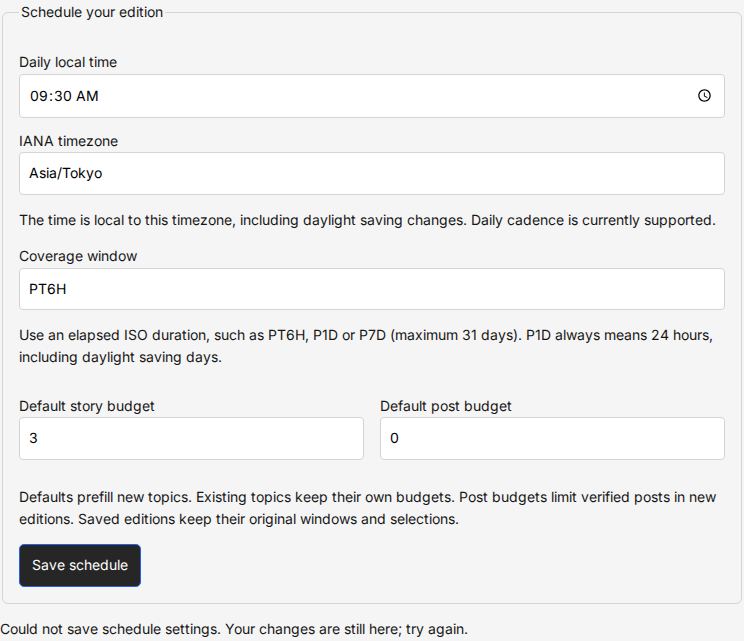
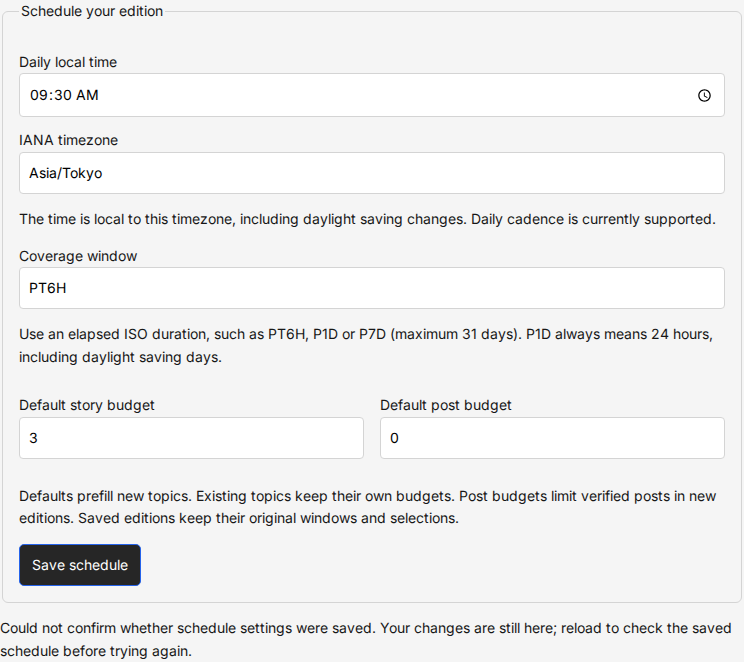
Clarify uncertain schedule saves and verify recovery

diff --git a/scripts/smoke-schedule.ts b/scripts/smoke-schedule.ts
@@ -49,6 +49,8 @@ async function smoke() {
     return route.continue();
   });
   let failSave = false;
+  let saveBeforeAbort = false;
+  let rejectSave = false;
   let pendingSave: Promise<void> | undefined;
   let releaseSave: (() => void) | undefined;
   let saves = 0;
@@ -60,7 +62,8 @@ async function smoke() {
     assert.equal(route.request().method(), 'PUT');
     saves++;
     if (pendingSave) await pendingSave;
-    if (failSave) return route.abort('failed');
+    if (failSave && !saveBeforeAbort) return route.abort('failed');
+    if (rejectSave) return route.fulfill({ status: 503, body: 'Unavailable' });
     const result = scheduleSchema.safeParse(route.request().postDataJSON());
     if (!result.success) {
       await route.fulfill({
@@ -75,6 +78,7 @@ async function smoke() {
       return;
     }
     profile.schedule = result.data;
+    if (saveBeforeAbort) return route.abort('failed');
     await route.fulfill({ json: profile });
   });
   try {
@@ -145,7 +149,9 @@ async function smoke() {
       pendingSave = undefined;
       await form
         .getByRole('status')
-        .filter({ hasText: 'Could not save schedule settings.' })
+        .filter({
+          hasText: 'Could not confirm whether schedule settings were saved.',
+        })
         .waitFor();
       assert.deepEqual(profile, beforeFailure);
       assert.ok(
@@ -181,6 +187,44 @@ async function smoke() {
         path: `docs/screenshots/schedule-save-failure-${device}.png`,
       });
       failSave = false;
+      rejectSave = true;
+      await form
+        .getByRole('button', { name: 'Save schedule', exact: true })
+        .click();
+      await form
+        .getByRole('status')
+        .filter({ hasText: 'Schedule request failed.' })
+        .waitFor();
+      assert.deepEqual(profile, beforeFailure);
+      assert.equal(
+        await form.getByLabel('Coverage window', { exact: true }).inputValue(),
+        'PT6H',
+      );
+      rejectSave = false;
+      saveBeforeAbort = true;
+      await form
+        .getByRole('button', { name: 'Save schedule', exact: true })
+        .click();
+      await form
+        .getByRole('status')
+        .filter({ hasText: 'reload to check the saved schedule' })
+        .waitFor();
+      assert.equal(profile.schedule.coverageWindow, 'PT6H');
+      await form.screenshot({
+        path: `docs/screenshots/ui/schedule-unconfirmed-${device}.png`,
+      });
+      saveBeforeAbort = false;
+      await page.reload();
+      await page.getByText('Schedule settings', { exact: true }).click();
+      assert.equal(
+        await form.getByLabel('Coverage window', { exact: true }).inputValue(),
+        'PT6H',
+      );
+      assert.equal(
+        await form.getByLabel('Daily local time', { exact: true }).inputValue(),
+        '09:30',
+      );
+      assert.equal(saves, previousSaves + 3, 'Reload must not retry a write');
       await form
         .getByRole('button', { name: 'Save schedule', exact: true })
         .click();
@@ -216,7 +260,7 @@ async function smoke() {
           value,
         );
       }
-      assert.equal(saves, previousSaves + 2);
+      assert.equal(saves, previousSaves + 4);
       await form
         .getByLabel('IANA timezone', { exact: true })
         .fill('Mars/Olympus');
@@ -276,7 +320,7 @@ async function smoke() {
         latest,
       );
     console.log(
-      'Schedule desktop/mobile: pending-save locks, failed-save recovery, all saved fields after reload, timezone errors, defaults, blocked writes, credential absence and full edition/topics/profile immutability passed',
+      'Schedule desktop/mobile: pending-save locks, failed-save recovery, non-JSON rejection, saved-but-interrupted response/reload, all saved fields after reload, timezone errors, defaults, blocked writes, credential absence and full edition/topics/profile immutability passed',
     );
   } finally {
     try {

diff --git a/apps/web/src/ScheduleSettings.tsx b/apps/web/src/ScheduleSettings.tsx
@@ -31,11 +31,14 @@ export function ScheduleSettings({
         body: JSON.stringify(input),
       });
       if (!response.ok) {
-        const error = await response.json();
+        const error: unknown = await response.json().catch(() => null);
         setMessage(
-          typeof error.message === 'string'
+          error !== null &&
+            typeof error === 'object' &&
+            'message' in error &&
+            typeof error.message === 'string'
             ? error.message
-            : 'Check schedule settings.',
+            : 'Schedule request failed. Your changes are still here; reload to check the saved schedule before trying again.',
         );
         return;
       }
@@ -45,7 +48,7 @@ export function ScheduleSettings({
       );
     } catch {
       setMessage(
-        'Could not save schedule settings. Your changes are still here; try again.',
+        'Could not confirm whether schedule settings were saved. Your changes are still here; reload to check the saved schedule before trying again.',
       );
     } finally {
       setBusy(false);

diff --git a/PROGRESS.md b/PROGRESS.md
@@ -1,22 +1,3 @@
-## 2026-11-05: iteration 795 — verify topic deletion recovery safely
-
-- Started clean on main; no leftover work. Alerts zero, health/database/Redis green and four app services active.
-- Topic-delete replay uses protected Node operational snapshots, blocks service workers and unexpected browser writes, probes the write guard and checks browser credential absence.
-- Desktop/mobile cancel sends no deletion; failed deletion retains the synthetic topic, retry removes it once and reload preserves original order. Full saved edition/topics/profile unchanged, no browser errors or overflow. Failure screenshots inspected.
-- Verification: pnpm format; pnpm lint:fix; pnpm check; smoke-topic-delete.ts; smoke-admin-gate.ts; git diff --check. All passed (exit 0): static checks, 497 unit and 214 isolated integration tests, desktop/mobile browser replay, admin gate and diff check.
-- TASKS/access decision updated; archived oldest progress entry. SOURCES/NEEDS_FROM_HUMAN unchanged: no source change or new blocker. No paid calls or runtime/config/schema/model/provider changes; no restart required under STEERING 22.
-- Next FIRST: Nov 5 15:00 UTC NBA/grouping/cost/latency review, fallback before scorer; X rounds after 21:00 UTC Nov 5/6. Admin identity/proxy verification remains pending.
-
-## 2026-11-05: iteration 796 — verify topic reorder recovery safely
-
-- Started clean on main; no leftover work. Alerts zero, health/database/Redis green, 36 sources without errors and all four app services active.
-- Topic-order replay now reads operational snapshots through protected Node requests, disables service workers, blocks unexpected browser writes with an explicit probe and checks browser credential absence. Replaced the edition-ID-only assertion with a full saved-edition comparison, plus topics/profile.
-- Desktop/mobile failed reorder retains original order; retry saves consecutive positions and reload preserves order in settings and content. No page errors or overflow; both failure screenshots inspected. Full live saved data unchanged.
-- Verification: pnpm format; pnpm lint:fix; pnpm check; smoke-topic-order.ts; smoke-admin-gate.ts; git diff --check. All passed (exit 0): static checks, 497 unit and 214 isolated integration tests, browser replay, admin gate and diff check.
-- TASKS/access decision updated; archived iteration 781. SOURCES/NEEDS_FROM_HUMAN unchanged: no source changes or new blockers. No paid calls, runtime/config/schema/model/provider changes; no restart required under STEERING 22.
-- Next FIRST: Nov 5 15:00 UTC NBA/grouping/cost/latency review, fallback before scorer; X rounds after 21:00 UTC Nov 5/6. Admin identity/proxy verification remains pending.
-- Final app health green; alert snapshot has one pending ObservabilityMemoryBudget warning for obs-metrics.service, zero firing. Recheck next iteration.
-
 ## 2026-11-05: iteration 797 — verify X-account save recovery safely
 
 - Started clean on main; no leftover work. Alerts zero; health/database/Redis green, all four app services active, 36 sources without errors or missing active-source success, no failed retained runs. Next edition is 15:00 UTC.
@@ -144,4 +125,13 @@
 - Protected snapshots prove full live topics/profile/edition unchanged; browser credential/write guards pass. Two new pending screenshots inspected; regenerated existing screenshots discarded. No live writes or paid calls.
 - Verification: pnpm format; pnpm lint:fix; pnpm check; smoke-custom-feeds.ts; smoke-admin-gate.ts; git diff --check. All passed (exit 0): static checks, 497 unit and 214 isolated integration tests, desktop/mobile browser replay, admin gate and diff check.
 - TASKS updated; SOURCES/NEEDS_FROM_HUMAN unchanged (no source changes/new blockers). Verification-only change; no rebuild/restart under STEERING 22.
+- Next FIRST: Nov 5 15:00 UTC NBA/grouping/cost/latency review, fallback before scorer; X rounds after 21:00 UTC Nov 5/6. Admin identity/proxy verification remains pending.
+
+## 2026-11-05: iteration 811 — clarify uncertain schedule saves
+
+- Started clean on main; no leftover work. Health/database/Redis and four app services green; 36 sources without current errors or missing active-source success. Digest queue has zero failures; retained ingestion/social failure counts remain two each. Metrics memory warning pending.
+- Schedule settings distinguish an interrupted response from a confirmed save, retain edits, and advise reloading the saved schedule before retrying. Non-JSON error responses get a readable recovery message; structured validation messages remain intact.
+- Desktop/mobile replay covers pending locks, abort before save, non-JSON rejection, a completed save whose response is lost, reload without another write, retry and validation. Protected full live topics/profile/edition unchanged; credential/write guards pass. New screenshots inspected.
+- Verification: pnpm format; pnpm lint:fix; pnpm build; pnpm check; smoke-schedule.ts; smoke-admin-gate.ts; git diff --check. All passed (exit 0): static checks, 497 unit and 214 isolated integration tests, browser recovery, admin gate and diff check.
+- Rebuilt app and restarted API; /healthz OK. Worker runtime unchanged. Archived progress 795–796 and completed markers 807–810; TASKS updated. SOURCES/NEEDS_FROM_HUMAN unchanged (no source changes/new blockers). No live writes or paid calls.
 - Next FIRST: Nov 5 15:00 UTC NBA/grouping/cost/latency review, fallback before scorer; X rounds after 21:00 UTC Nov 5/6. Admin identity/proxy verification remains pending.

diff --git a/docs/progress-archive/2026-11-05-iterations-795-796.md b/docs/progress-archive/2026-11-05-iterations-795-796.md
@@ -1,0 +1,18 @@
+## 2026-11-05: iteration 795 — verify topic deletion recovery safely
+
+- Started clean on main; no leftover work. Alerts zero, health/database/Redis green and four app services active.
+- Topic-delete replay uses protected Node operational snapshots, blocks service workers and unexpected browser writes, probes the write guard and checks browser credential absence.
+- Desktop/mobile cancel sends no deletion; failed deletion retains the synthetic topic, retry removes it once and reload preserves original order. Full saved edition/topics/profile unchanged, no browser errors or overflow. Failure screenshots inspected.
+- Verification: pnpm format; pnpm lint:fix; pnpm check; smoke-topic-delete.ts; smoke-admin-gate.ts; git diff --check. All passed (exit 0): static checks, 497 unit and 214 isolated integration tests, desktop/mobile browser replay, admin gate and diff check.
+- TASKS/access decision updated; archived oldest progress entry. SOURCES/NEEDS_FROM_HUMAN unchanged: no source change or new blocker. No paid calls or runtime/config/schema/model/provider changes; no restart required under STEERING 22.
+- Next FIRST: Nov 5 15:00 UTC NBA/grouping/cost/latency review, fallback before scorer; X rounds after 21:00 UTC Nov 5/6. Admin identity/proxy verification remains pending.
+
+## 2026-11-05: iteration 796 — verify topic reorder recovery safely
+
+- Started clean on main; no leftover work. Alerts zero, health/database/Redis green, 36 sources without errors and all four app services active.
+- Topic-order replay now reads operational snapshots through protected Node requests, disables service workers, blocks unexpected browser writes with an explicit probe and checks browser credential absence. Replaced the edition-ID-only assertion with a full saved-edition comparison, plus topics/profile.
+- Desktop/mobile failed reorder retains original order; retry saves consecutive positions and reload preserves order in settings and content. No page errors or overflow; both failure screenshots inspected. Full live saved data unchanged.
+- Verification: pnpm format; pnpm lint:fix; pnpm check; smoke-topic-order.ts; smoke-admin-gate.ts; git diff --check. All passed (exit 0): static checks, 497 unit and 214 isolated integration tests, browser replay, admin gate and diff check.
+- TASKS/access decision updated; archived iteration 781. SOURCES/NEEDS_FROM_HUMAN unchanged: no source changes or new blockers. No paid calls, runtime/config/schema/model/provider changes; no restart required under STEERING 22.
+- Next FIRST: Nov 5 15:00 UTC NBA/grouping/cost/latency review, fallback before scorer; X rounds after 21:00 UTC Nov 5/6. Admin identity/proxy verification remains pending.
+- Final app health green; alert snapshot has one pending ObservabilityMemoryBudget warning for obs-metrics.service, zero firing. Recheck next iteration.

diff --git a/TASKS.md b/TASKS.md
@@ -45,13 +45,9 @@ STEERING overrides older milestone notes; implementation history is in PROGRESS.
 
 ## Done markers
 
-- [x] Custom-feed pending connection (810): desktop/mobile replay verifies one held request locks feed fields, source checkboxes/save/close and query controls; failure unlocks retained entries, retry/reload/disconnect pass; protected live data unchanged.
+- [x] Schedule save outcomes (811): interrupted responses retain edits and advise checking saved state; desktop/mobile replay covers a saved write with lost response, reload without retry, non-JSON rejection and unchanged live data.
 
-- [x] News-query connection outcomes (809): desktop/mobile replay verifies interrupted request retains input, confirmed save survives catalog-refresh failure with selection retained, then reload/disconnect; protected live data unchanged.
-
-- [x] Feed connection outcome messages (808): distinguish an unconfirmed network outcome from a confirmed save whose catalog refresh failed; desktop/mobile recovery replay checks retained entries, saved selections and unchanged live data.
-
-- [x] News-query pending-save recovery (807): desktop/mobile query, source-save/close and custom-feed controls lock during one held request; failure retains input, retry/reload/disconnect pass; protected live snapshots unchanged.
+- Completed iterations 807–810: [archive](docs/progress-archive/2026-11-05-completed-task-markers-811.md).
 
 - Completed iterations 803–806: [2026-11-05-completed-task-markers-807.md](docs/progress-archive/2026-11-05-completed-task-markers-807.md).
 - Earlier completed markers: [iterations through 802](docs/progress-archive/2026-11-05-completed-task-markers-803.md).

diff --git a/docs/progress-archive/2026-11-05-completed-task-markers-811.md b/docs/progress-archive/2026-11-05-completed-task-markers-811.md
@@ -1,0 +1,9 @@
+# Completed task markers — iterations 807–810
+
+- [x] Custom-feed pending connection (810): desktop/mobile replay verifies one held request locks feed fields, source checkboxes/save/close and query controls; failure unlocks retained entries, retry/reload/disconnect pass; protected live data unchanged.
+
+- [x] News-query connection outcomes (809): desktop/mobile replay verifies interrupted request retains input, confirmed save survives catalog-refresh failure with selection retained, then reload/disconnect; protected live data unchanged.
+
+- [x] Feed connection outcome messages (808): distinguish an unconfirmed network outcome from a confirmed save whose catalog refresh failed; desktop/mobile recovery replay checks retained entries, saved selections and unchanged live data.
+
+- [x] News-query pending-save recovery (807): desktop/mobile query, source-save/close and custom-feed controls lock during one held request; failure retains input, retry/reload/disconnect pass; protected live snapshots unchanged.
